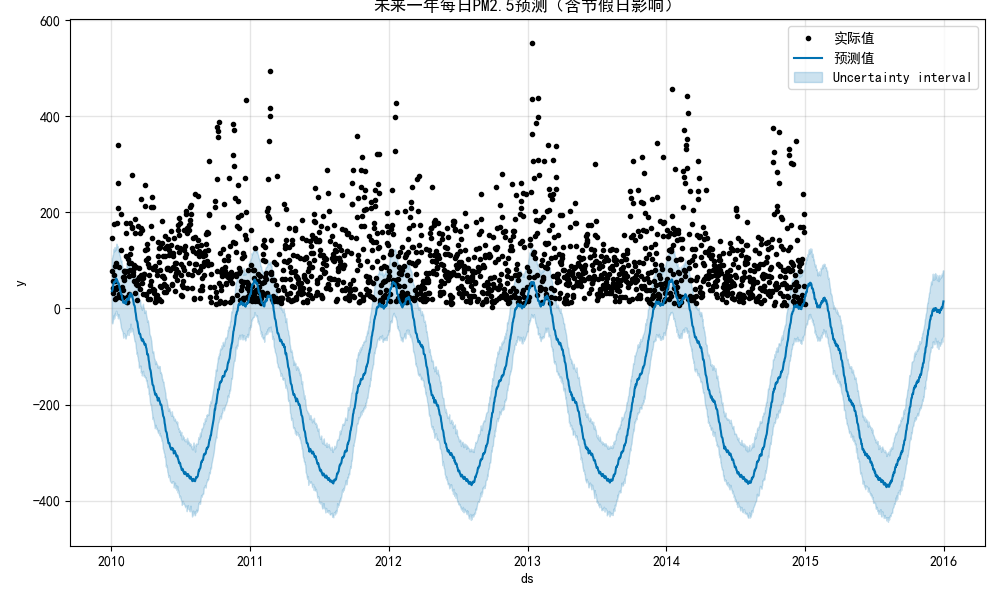
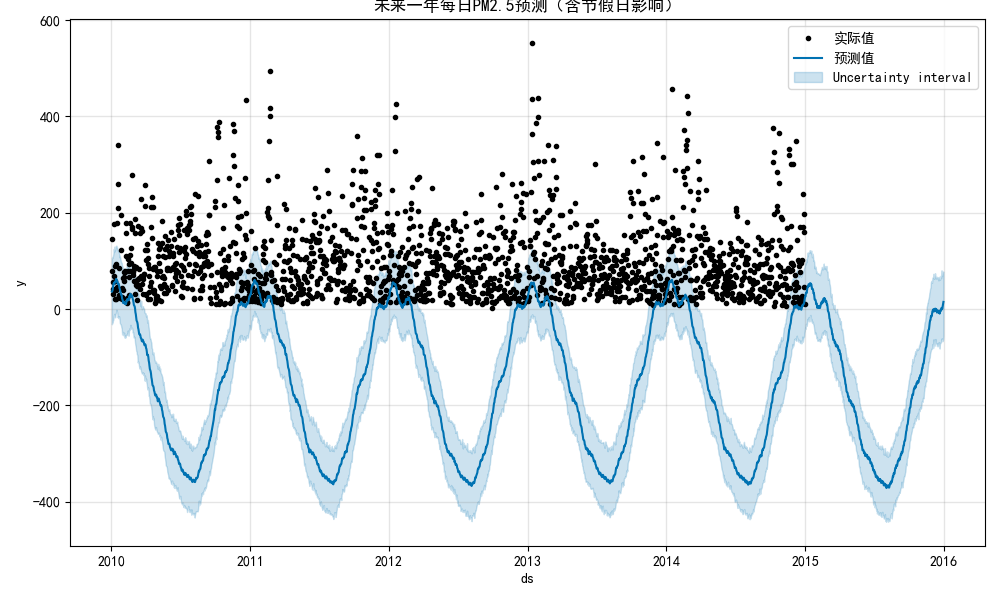
添加Prophet时序预测模型注释

diff --git a/prophet_with_holiday.py b/prophet_with_holiday.py
@@ -25,10 +25,10 @@ except:
 df = pd.read_csv(os.path.join("data", "PRSA_data_2010.1.1-2014.12.31.csv"))
 
 # 2. 生成datetime列
-df['datetime'] = pd.to_datetime(df[['year', 'month', 'day', 'hour']])
+df['datetime'] = pd.to_datetime(df[['year', 'month', 'day', 'hour']]) # 将指定的列转换为日期时间格式
 
-# 3. 新增日期列（不含时间）
-df['date'] = df['datetime'].dt.date
+# 3. 新增日期列
+df['date'] = df['datetime'].dt.date # 将datetime类型转换为date类型
 
 # 4. 按天聚合计算均值
 df_daily = df.groupby('date').agg({
@@ -49,7 +49,7 @@ df_daily = df_daily[['ds', 'y', 'TEMP', 'DEWP', 'PRES', 'Iws']]
 # 7. 处理缺失值
 print("缺失值统计：")
 print(df_daily.isnull().sum())
-df_daily = df_daily.dropna()
+df_daily = df_daily.dropna() # 删除包含缺失值的行，更新DataFrame
 
 # 8. 利用chinese_calendar自动生成节假日DataFrame
 def generate_holiday_df(start_date, end_date):
@@ -57,7 +57,7 @@ def generate_holiday_df(start_date, end_date):
     holidays = []
     for d in dates:
         if chinese_calendar.is_holiday(d):
-            holidays.append({'holiday': 'chinese_holiday', 'ds': d, 'lower_window': 0, 'upper_window': 1})
+            holidays.append({'holiday': 'chinese_holiday', 'ds': d, 'lower_window': 0, 'upper_window': 1})        
     return pd.DataFrame(holidays)
 
 holidays = generate_holiday_df(df_daily['ds'].min(), df_daily['ds'].max())
